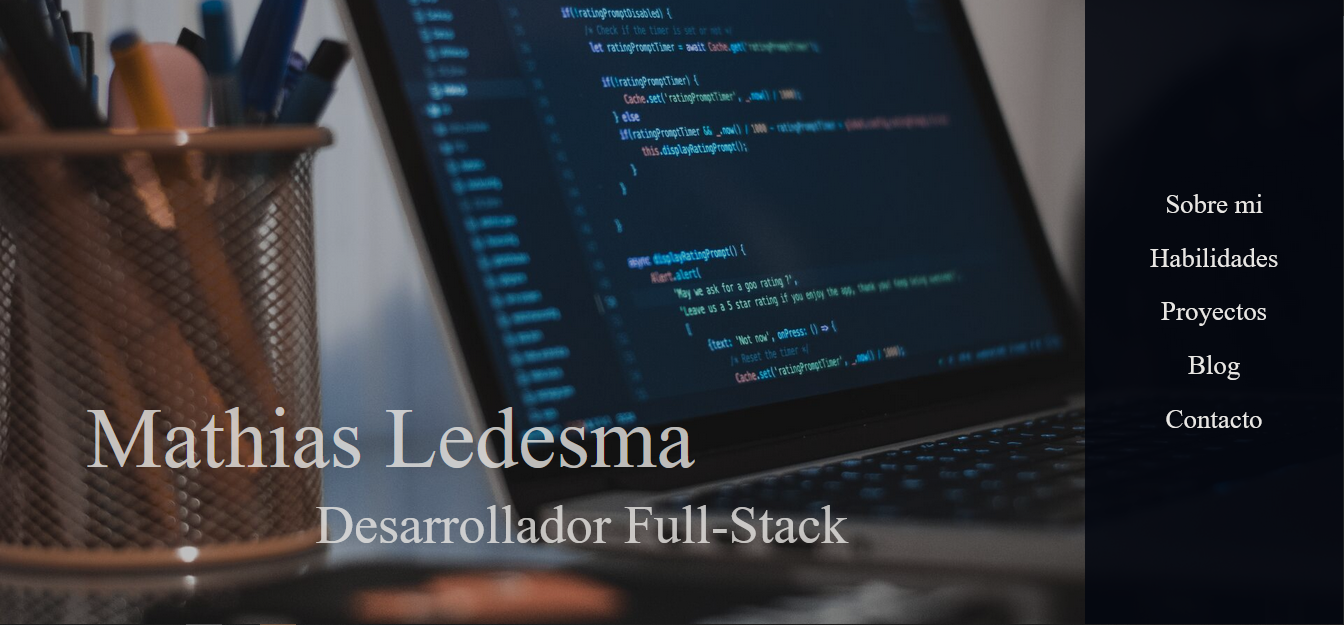
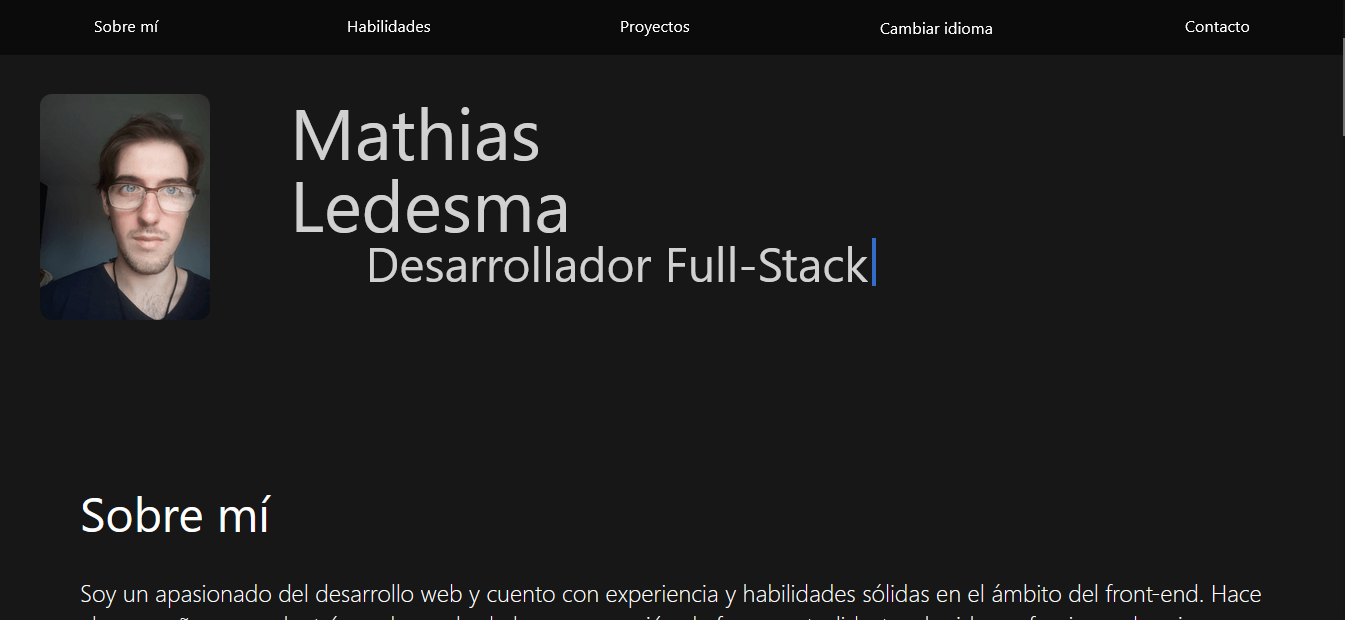
ordered folders

diff --git a/pages/index.tsx b/pages/index.tsx
@@ -1,43 +1,19 @@
 import Head from 'next/head'
 import { Inter } from 'next/font/google'
 import Image from 'next/image'
-import Footer from './components/Footer'
-import Projects from './components/Projects'
-import Habilidades from './components/Habilidades'
+import Footer from '../components/Footer'
+import Projects from '../components/Projects'
+import Habilidades from '../components/Habilidades'
 import React from 'react'
-import i18n from '@/i18n'
+import Nav from '../components/Nav/Nav'
 import { useTranslation } from 'react-i18next'
 
 
 const inter:object = Inter({ subsets: ['latin'] })
 
-const handleMenu = () => {
-	let menu = document.querySelector('.hamburger') as HTMLElement;
-
-	const toggleMenu = (event:any) => {
-		let menuppal = document.querySelector( ".menuppal" ) as HTMLElement
-		menuppal.classList.toggle("is_active")
-  	event.preventDefault();
-	}
-
-	menu.addEventListener('click', toggleMenu);
-}
-
 export default function Home() {
 	const [language, setLanguage] = React.useState("es-ES")
-
 	const {t} = useTranslation();
-
-	const handleChangeLanguage = () => {
-		if(i18n.language == "es-ES"){
-			i18n.changeLanguage("en-IN")
-			setLanguage("en-IN")
-		} else {
-		i18n.changeLanguage("es-ES")
-		setLanguage("es-ES")
-		}
-	}
-
   return (
     <>
       <Head>
@@ -46,97 +22,13 @@ export default function Home() {
         <meta name="viewport" content="width=device-width, initial-scale=1" /> 
         <link rel="icon" href="/favicon.ico" />
       </Head>
-			<nav className='md:hidden fixed top-0 md:bottom-0 md:right-0 h-14 w-full 
-					w-full bg-neutral-950/90 flex flex-row justify-center 
-					text-sm md:text-lg z-10 md:[&>*]:scale-90'>
-				<div className="hamburger" onClick={()=>handleMenu()}>
-					<div className="_layer -top"></div>
-					<div className="_layer -mid"></div>
-					<div className="_layer -bottom"></div>
-				</div>
-				<nav className="menuppal bg-neutral-950/90">
-					<ul>
-						<li>
-							<a 
-								href="#sobremi"
-								className='w-max mx-auto md:my-3 my-auto'>
-								{t("About me")}
-							</a>
-						</li>
-						<li>
-							<a 
-								href="#habilidades"
-								className='w-max mx-auto md:my-3 my-auto'>
-								{t("Skills")}
-							</a>
-						</li>
-						<li>
-							<a 
-								href="#proyectos"
-								className='w-max mx-auto md:my-3 my-auto'>
-								{t("Projects")}
-							</a>
-						</li>
-						<li>
-							<button 
-								onClick={()=>handleChangeLanguage()}
-								className='w-max mx-auto md:my-3 my-auto'>
-								{t("Change language")}
-							</button>
-						</li>
-						<li>
-							<a 
-								href="#contacto"
-								className='w-max mx-auto md:my-3 my-auto'>
-								{t("Contact")}
-							</a>
-						</li>
-					</ul>
-				</nav>
-				<h1 className="text-2xl my-auto">Portafolio</h1>
-			</nav>
-			<nav 
-					className='fixed top-0 md:bottom-0 md:right-0 h-14 w-full 
-					w-full bg-neutral-950/90 hidden md:flex md:flex-row justify-center 
-					text-sm md:text-lg z-10 md:[&>*]:scale-90'
-					>
-					<a 
-						href="#sobremi"
-						className='w-max mx-auto md:my-3 my-auto hover:text-slate-500'
-						>
-						{t("About me")}
-					</a>
-					<a 
-						href="#habilidades" 
-						className='w-max mx-auto md:my-3 my-auto hover:text-slate-500'
-						> 
-						{t("Skills")}
-					</a>
-					<a 
-						href="#proyectos" 
-						className='w-max mx-auto md:my-3 my-auto hover:text-slate-500'
-						>
-						{t("Projects")}
-					</a>
-					<button 
-						onClick={()=>handleChangeLanguage()}
-						className='w-max mx-auto md:my-3 my-auto hover:text-slate-500'
-						>
-						{t("Change language")}
-					</button>
-					<a 
-						href="#contacto" 
-						className='w-max mx-auto md:my-3 my-auto hover:text-slate-500'
-						>
-						{t("Contact")}
-					</a>
-			</nav>
+			<Nav  setLanguage={setLanguage}/>
 
       <main 
 				className="w-full"
 				>
         <div 
-					className='flex flex-col md:flex-row justify-center pt-56'
+					className='flex flex-col md:flex-row w-full md:px-20 justify-center pt-56'
 					>
 					<Image 
 						className='mx-auto h-max md:mx-10 mb-10 md:mb-0 rounded-xl'
@@ -144,25 +36,19 @@ export default function Home() {
 						alt='my photo' 
 						width={170} 
 						height={170}/>
-					<div className="flex flex-col md:h-max md:flex-col">
+					<div className="flex flex-col grow md:h-max md:flex-col">
 						<h1 
-							className='mx-auto ml-5 md:mr-20 md:ml-10 h-full md:pr-16 h-max
-							md:pr-40 w-fit text-5xl md:text-7xl opacity-80'
+							className='mx-auto ml-5 w-full md:mr-20 md:ml-10 h-full md:pr-16 h-max
+							md:pr-40 w-max text-5xl md:text-7xl opacity-80'
 							>
 							Mathias Ledesma
 						</h1>
 						<h2 
-							className='overflow-hidden whitespace-nowrap border-r-4 w-max opacity-80
+							className='overflow-hidden whitespace-nowrap border-r-4 mt-6 md:mt-8 w-max opacity-80
 								border-blue-500 w-0 m-0 m-auto animate-typing_mobile md:animate-typing text-4xl md:text-5xl'
 							>
 							{t("Full-Stack Developer")}
 						</h2>
-					</div>
-					<div 
-						className='mx-auto md:ml-48 mt-3 md:mb-20 pl-20 md:pl-40 
-						mb-10 mt-5 w-fit opacity-80'
-						>
-						
 					</div>
 				</div>
 				<section 

diff --git a/components/Nav/NavMobile.tsx b/components/Nav/NavMobile.tsx
@@ -1,0 +1,84 @@
+import i18n from "@/i18n";
+import React from "react";
+import { useTranslation } from "react-i18next";
+
+
+const handleMenu = () => {
+	let menu = document.querySelector('.hamburger') as HTMLElement;
+
+	const toggleMenu = (event:any) => {
+		let menuppal = document.querySelector( ".menuppal" ) as HTMLElement
+		menuppal.classList.toggle("is_active")
+  	event.preventDefault();
+	}
+
+	menu.addEventListener('click', toggleMenu);
+}
+
+const NavMobile = ({setLanguage}:any) => {
+	const {t} = useTranslation();
+
+	const handleChangeLanguage = () => {
+		if(i18n.language == "es-ES"){
+			i18n.changeLanguage("en-IN")
+			setLanguage("en-IN")
+		} else {
+		i18n.changeLanguage("es-ES")
+		setLanguage("es-ES")
+		}
+	}
+
+	return(
+		<nav className='md:hidden fixed top-0 md:bottom-0 md:right-0 h-14 w-full 
+					w-full bg-neutral-950/90 flex flex-row justify-center 
+					text-sm md:text-lg z-10 md:[&>*]:scale-90'>
+				<div className="hamburger" onClick={()=>handleMenu()}>
+					<div className="_layer -top"></div>
+					<div className="_layer -mid"></div>
+					<div className="_layer -bottom"></div>
+				</div>
+				<nav className="menuppal bg-neutral-950/90">
+					<ul>
+						<li>
+							<a 
+								href="#sobremi"
+								className='w-max mx-auto md:my-3 my-auto'>
+								{t("About me")}
+							</a>
+						</li>
+						<li>
+							<a 
+								href="#habilidades"
+								className='w-max mx-auto md:my-3 my-auto'>
+								{t("Skills")}
+							</a>
+						</li>
+						<li>
+							<a 
+								href="#proyectos"
+								className='w-max mx-auto md:my-3 my-auto'>
+								{t("Projects")}
+							</a>
+						</li>
+						<li>
+							<button 
+								onClick={()=>handleChangeLanguage()}
+								className='w-max mx-auto md:my-3 my-auto'>
+								{t("Change language")}
+							</button>
+						</li>
+						<li>
+							<a 
+								href="#contacto"
+								className='w-max mx-auto md:my-3 my-auto'>
+								{t("Contact")}
+							</a>
+						</li>
+					</ul>
+				</nav>
+				<h1 className="text-2xl my-auto">Portafolio</h1>
+			</nav>
+	)
+}
+
+export default NavMobile

diff --git a/components/Nav/NavDesktop.tsx b/components/Nav/NavDesktop.tsx
@@ -1,0 +1,58 @@
+import i18n from "@/i18n";
+import React from "react";
+import { useTranslation } from "react-i18next";
+
+const NavDesktop = ({setLanguage}:any) => {
+	const {t} = useTranslation();
+
+	const handleChangeLanguage = () => {
+		if(i18n.language == "es-ES"){
+			i18n.changeLanguage("en-IN")
+			setLanguage("en-IN")
+		} else {
+		i18n.changeLanguage("es-ES")
+		setLanguage("es-ES")
+		}
+	}
+
+	return(
+			<nav 
+					className='fixed top-0 md:bottom-0 md:right-0 h-14 w-full 
+					w-full bg-neutral-950/90 hidden md:flex md:flex-row justify-center 
+					text-sm md:text-lg z-10 md:[&>*]:scale-90'
+					>
+					<a 
+						href="#sobremi"
+						className='w-max mx-auto md:my-3 my-auto hover:text-slate-500'
+						>
+						{t("About me")}
+					</a>
+					<a 
+						href="#habilidades" 
+						className='w-max mx-auto md:my-3 my-auto hover:text-slate-500'
+						> 
+						{t("Skills")}
+					</a>
+					<a 
+						href="#proyectos" 
+						className='w-max mx-auto md:my-3 my-auto hover:text-slate-500'
+						>
+						{t("Projects")}
+					</a>
+					<button 
+						onClick={()=>handleChangeLanguage()}
+						className='w-max mx-auto md:my-3 my-auto hover:text-slate-500'
+						>
+						{t("Change language")}
+					</button>
+					<a 
+						href="#contacto" 
+						className='w-max mx-auto md:my-3 my-auto hover:text-slate-500'
+						>
+						{t("Contact")}
+					</a>
+			</nav>
+	)
+}
+
+export default NavDesktop

diff --git a/components/CardHabilidades.tsx b/components/CardHabilidades.tsx
@@ -11,14 +11,14 @@ const CardHabilidades = ({side, icons}:any) => {
 								{side}
 							</h1>
 			    <div 
-						className="py-10 flex flex-row font-light gap-5 md:gap-10 flex-wrap p-14 justify-center grid-center"
+						className="py-10 flex flex-row font-light gap-5 md:gap-10 flex-wrap p-12 justify-center grid-center"
 						>
 			      {
 							icons.map((ico:any, index:number) => {
 								return (
 									<div className="flex flex-col basis-28 md:basis-20 justify-center" key={index}>
 										{ico[1]}
-										<p className="py-8 mx-auto md:text-xl">{ico[0]}</p>
+										<p className="py-8 mx-auto md:text-xl whitespace-nowrap">{ico[0]}</p>
 									</div>
 								)
 							})

diff --git a/components/Nav/Nav.tsx b/components/Nav/Nav.tsx
@@ -1,0 +1,13 @@
+import NavDesktop from "./NavDesktop"
+import NavMobile from "./NavMobile"
+
+const Nav = ({setLanguage}:any) => {
+	return(
+		<>
+		<NavDesktop setLanguage={setLanguage}/>
+		<NavMobile setLanguage={setLanguage}/>
+		</>
+	)
+}
+
+export default Nav

diff --git a/tailwind.config.ts b/tailwind.config.ts
@@ -2,6 +2,7 @@
 
 module.exports = {
   content: [
+		"./components/**/*.{js,ts,jsx,tsx}",
 		"./pages/**/*.{js,ts,jsx,tsx}",
 	],
   theme: {
